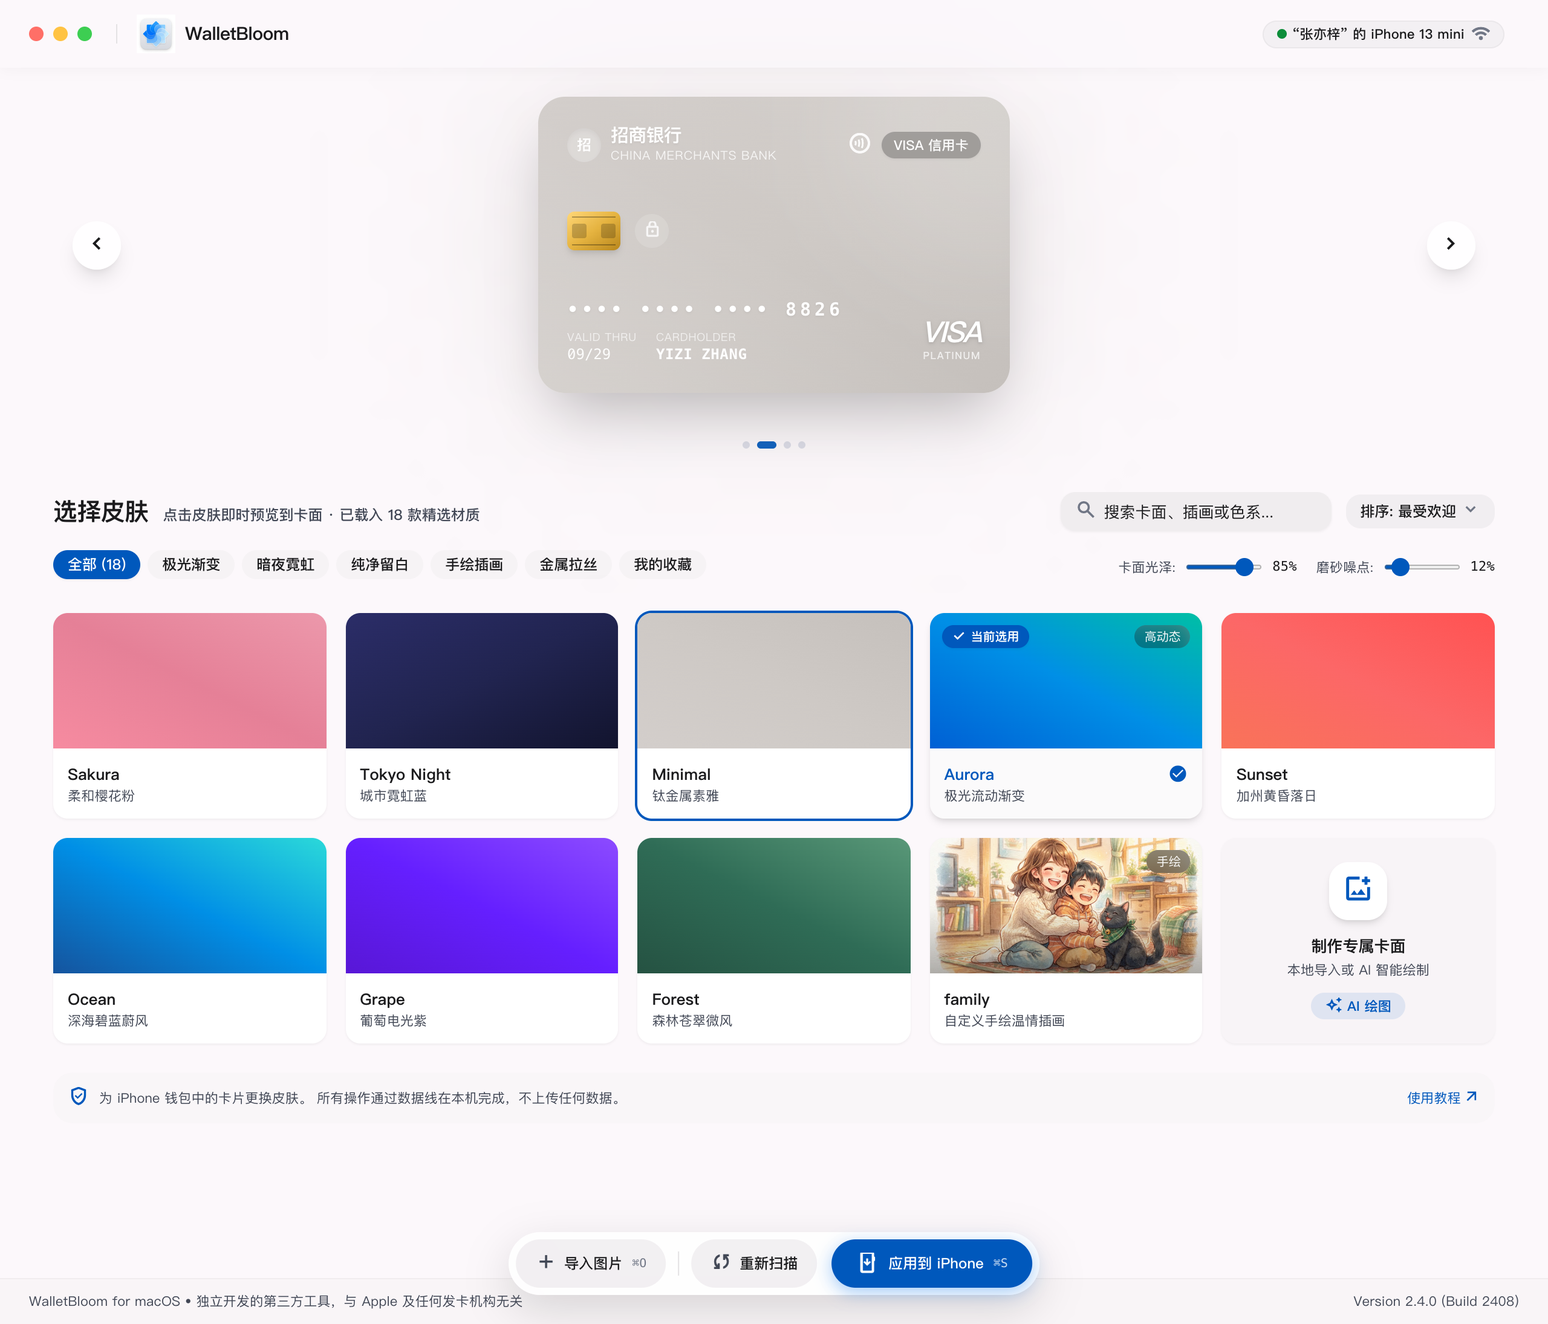
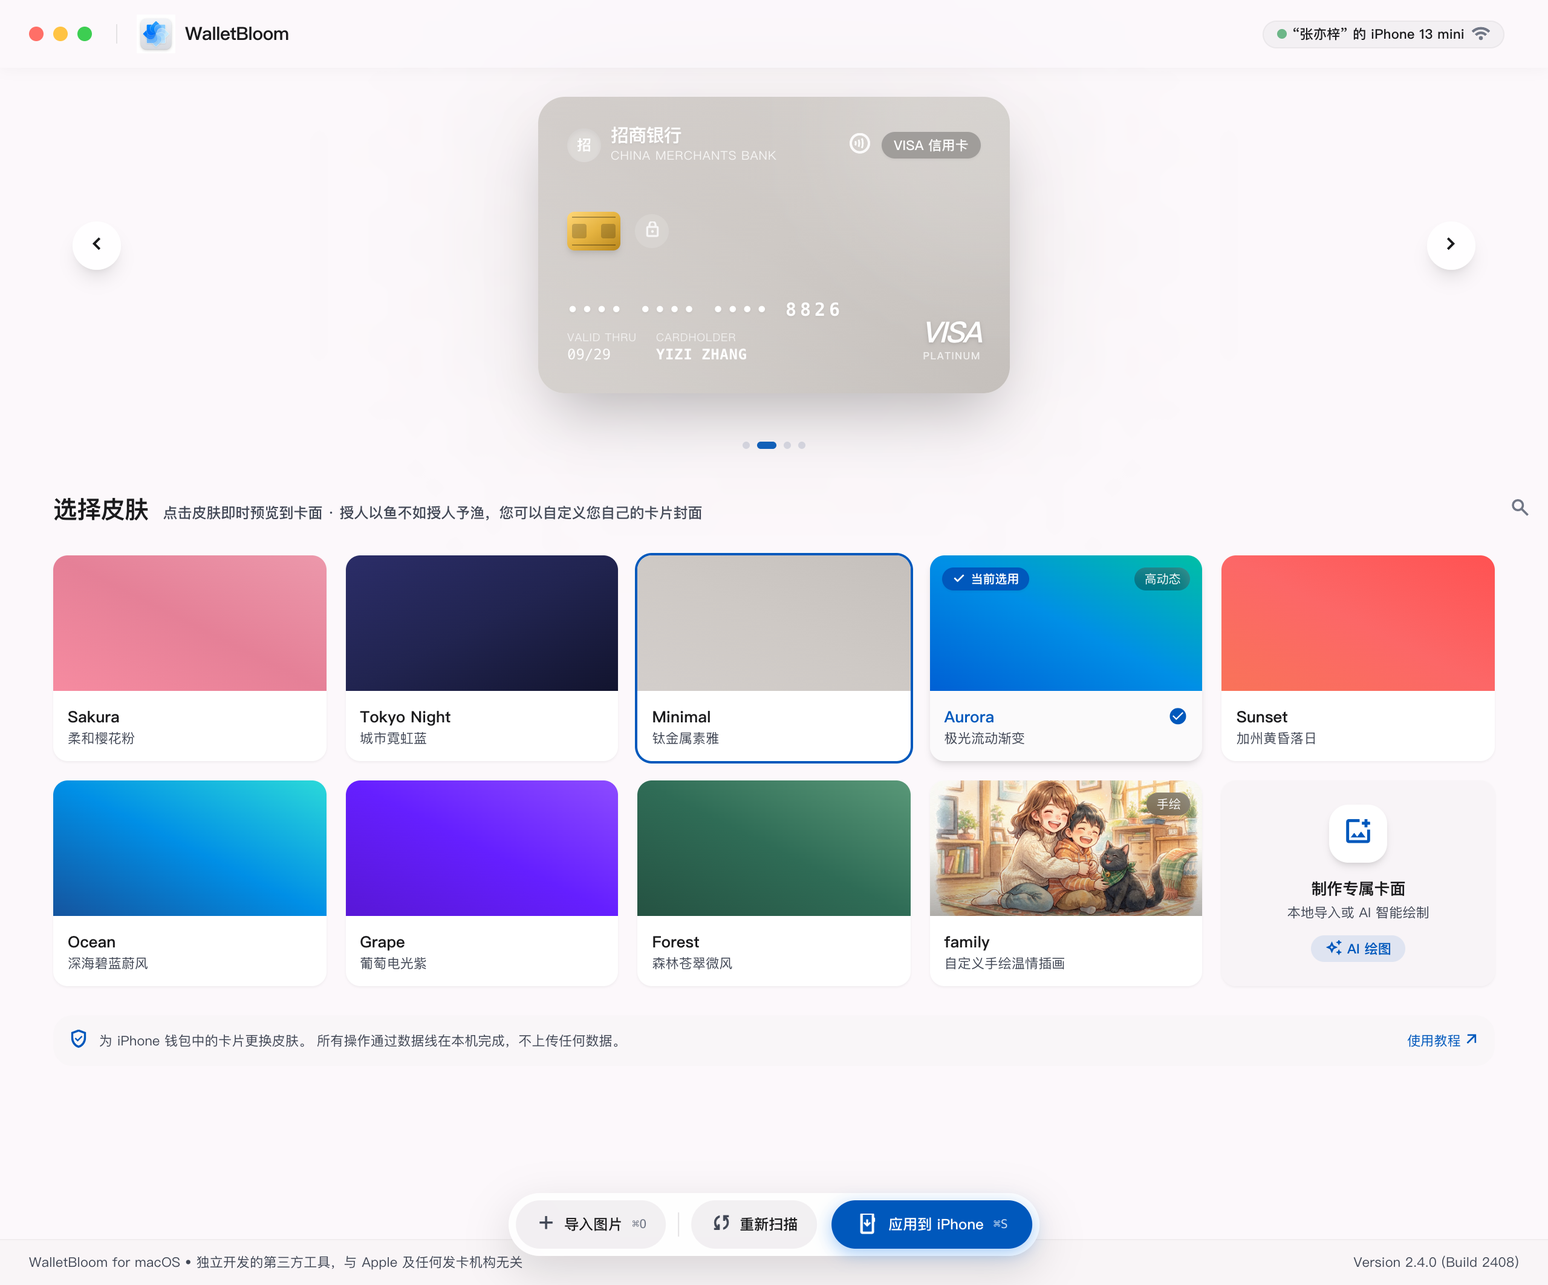
开源准备：面向用户的 README、LICENSE 与第三方许可声明
- README 重写为中文使用说明，含 Gatekeeper 放行方法（未做公证）、使用步骤、从源码编译、致谢与许可
- 新增 MIT LICENSE
- 新增 THIRD_PARTY_NOTICES.md，收录 AirCard（MIT）、Sparkle、python-build-standalone 的许可声明

diff --git a/stitch_macos_app_redesign/code.html b/stitch_macos_app_redesign/code.html
@@ -7,14 +7,14 @@
 <!-- Center Stage 3D Visualizer Carousel Area -->
 <div class="relative w-full py-6 flex items-center justify-center overflow-visible">
 <!-- Background Ambient Glow Halo -->
-<div class="absolute w-[440px] h-[260px] rounded-[36px] bg-primary-container/30 blur-[64px] pointer-events-none transition-all duration-700 ease-out" id="ambient-glow"></div>
+<div class="absolute w-[440px] h-[260px] rounded-[36px] bg-primary-container/30 blur-[64px] pointer-events-none transition-all duration-700 ease-out" id="ambient-glow" style="background-color: rgba(211, 206, 203, 0.3);"></div>
 <!-- Left Chevron Carousel Control -->
 <button aria-label="上一个卡面" class="absolute left-4 z-20 w-10 h-10 rounded-full bg-surface-container-lowest/90 hover:bg-surface-container-lowest text-on-surface flex items-center justify-center shadow-lg transition-transform active:scale-90 hover:scale-105">
 <span class="material-symbols-outlined text-[20px]">chevron_left</span>
 </button>
 <!-- Active Apple Wallet Card 3D Stage -->
 <div class="relative z-10 perspective-[1200px]">
-<div class="relative w-[390px] h-[245px] rounded-[22px] p-6 text-on-primary shadow-2xl flex flex-col justify-between overflow-hidden cursor-pointer select-none transition-all duration-500 ease-out hover:-translate-y-1.5 hover:shadow-[0_24px_50px_rgba(0,112,235,0.3)] bg-gradient-to-tr from-[#0060d4] via-[#008fe6] to-[#00bfa5]" id="hero-card" style="transform: rotateX(0deg) rotateY(0deg) scale(1);">
+<div class="relative w-[390px] h-[245px] rounded-[22px] p-6 text-on-primary shadow-2xl flex flex-col justify-between overflow-hidden cursor-pointer select-none transition-all duration-500 ease-out hover:-translate-y-1.5 hover:shadow-[0_24px_50px_rgba(0,112,235,0.3)] bg-gradient-to-tr from-[#0060d4] via-[#008fe6] to-[#00bfa5]" id="hero-card" style="transform: rotateX(0deg) rotateY(0deg) scale(1); background: linear-gradient(135deg, rgb(211, 206, 203) 0%, rgb(206, 201, 197) 50%, rgb(197, 192, 188) 100%);">
 <!-- Card Specular Sheen Gradient Overlay -->
 <div class="absolute inset-0 bg-gradient-to-tr from-white/20 via-transparent to-white/10 opacity-70 pointer-events-none"></div>
 <div class="absolute -top-24 -right-24 w-60 h-60 bg-white/15 rounded-full blur-2xl pointer-events-none"></div>
@@ -93,45 +93,19 @@
 <div class="flex items-center justify-between">
 <div class="flex items-baseline gap-3">
 <h2 class="font-headline-lg text-headline-lg font-bold text-on-surface">选择皮肤</h2>
-<span class="font-label-md text-label-md text-on-surface-variant">点击皮肤即时预览到卡面 · 已载入 18 款精选材质</span>
+<span class="font-label-md text-label-md text-on-surface-variant">点击皮肤即时预览到卡面 · 授人以鱼不如授人予渔，您可以自定义您自己的卡片封面</span>
 </div>
 <!-- Search & Sorter -->
 <div class="flex items-center gap-3">
 <div class="relative flex items-center">
 <span class="material-symbols-outlined absolute left-3 text-outline text-[18px]">search</span>
-<input class="h-8 pl-9 pr-3 rounded-xl bg-surface-container text-body-md text-on-surface placeholder:text-outline focus:outline-none focus:bg-surface-container-lowest shadow-sm w-56 transition-all" placeholder="搜索卡面、插画或色系..." type="text">
+
 </div>
-<div class="flex items-center gap-1 px-3 py-1.5 rounded-xl bg-surface-container-high/60 text-on-surface font-label-md text-label-md cursor-pointer hover:bg-surface-container-high transition-colors">
-<span class="">排序: 最受欢迎</span>
-<span class="material-symbols-outlined text-[16px] text-outline">expand_more</span>
-</div>
+
 </div>
 </div>
 <!-- Tag Filter Pills & Quick Toggles -->
-<div class="flex items-center justify-between">
-<div class="flex items-center gap-1.5 overflow-x-auto pb-1">
-<button class="px-space-md py-1 rounded-full bg-primary text-on-primary font-label-md text-label-md shadow-sm">全部 (18)</button>
-<button class="px-space-md py-1 rounded-full bg-surface-container-low hover:bg-surface-container text-on-surface font-label-md text-label-md transition-colors">极光渐变</button>
-<button class="px-space-md py-1 rounded-full bg-surface-container-low hover:bg-surface-container text-on-surface font-label-md text-label-md transition-colors">暗夜霓虹</button>
-<button class="px-space-md py-1 rounded-full bg-surface-container-low hover:bg-surface-container text-on-surface font-label-md text-label-md transition-colors">纯净留白</button>
-<button class="px-space-md py-1 rounded-full bg-surface-container-low hover:bg-surface-container text-on-surface font-label-md text-label-md transition-colors">手绘插画</button>
-<button class="px-space-md py-1 rounded-full bg-surface-container-low hover:bg-surface-container text-on-surface font-label-md text-label-md transition-colors">金属拉丝</button>
-<button class="px-space-md py-1 rounded-full bg-surface-container-low hover:bg-surface-container text-on-surface font-label-md text-label-md transition-colors">我的收藏</button>
-</div>
-<!-- Micro Parameters Quick Sliders -->
-<div class="flex items-center gap-4 text-on-surface-variant font-label-sm text-label-sm">
-<div class="flex items-center gap-2">
-<span class="">卡面光泽:</span>
-<input class="w-16 accent-primary h-1 bg-surface-container-highest rounded-lg cursor-pointer" max="100" min="0" type="range" value="85">
-<span class="font-mono text-on-surface">85%</span>
-</div>
-<div class="flex items-center gap-2">
-<span class="">磨砂噪点:</span>
-<input class="w-16 accent-primary h-1 bg-surface-container-highest rounded-lg cursor-pointer" max="100" min="0" type="range" value="12">
-<span class="font-mono text-on-surface">12%</span>
-</div>
-</div>
-</div>
+
 </div>
 <!-- 5-Column Fluid Skin Selection Grid -->
 <div class="grid grid-cols-5 gap-gutter w-full">
@@ -162,7 +136,7 @@
 </div>
 </div>
 <!-- Card 3: Minimal -->
-<div class="skin-tile group flex flex-col rounded-xl overflow-hidden bg-surface-container-lowest shadow-sm hover:shadow-md cursor-pointer transition-all duration-200" data-skin="minimal">
+<div class="skin-tile group flex flex-col rounded-xl overflow-hidden bg-surface-container-lowest shadow-sm hover:shadow-md cursor-pointer transition-all duration-200 ring-2 ring-primary" data-skin="minimal">
 <div class="h-28 w-full bg-gradient-to-tr from-[#d3cecb] via-[#cec9c5] to-[#c5c0bc] p-2.5 flex justify-end items-start relative overflow-hidden">
 <span class="opacity-0 group-hover:opacity-100 transition-opacity px-2 py-0.5 rounded-full bg-black/30 backdrop-blur-md text-white font-label-sm text-[10px]">预览</span>
 </div>
@@ -175,7 +149,7 @@
 </div>
 </div>
 <!-- Card 4: Aurora (ACTIVE / SELECTED) -->
-<div class="skin-tile active-skin group flex flex-col rounded-xl overflow-hidden bg-surface-container-lowest shadow-md cursor-pointer transition-all duration-200 ring-2 ring-primary" data-skin="aurora">
+<div class="skin-tile active-skin group flex flex-col rounded-xl overflow-hidden bg-surface-container-lowest shadow-md cursor-pointer transition-all duration-200" data-skin="aurora">
 <div class="h-28 w-full bg-gradient-to-tr from-[#0060d4] via-[#008fe6] to-[#00bfa5] p-2.5 flex justify-between items-start relative overflow-hidden">
 <span class="px-2 py-0.5 rounded-full bg-primary text-on-primary font-label-sm text-[10px] font-semibold flex items-center gap-1 shadow-sm">
 <span class="material-symbols-outlined text-[12px]">check</span> 当前选用
@@ -437,5 +411,7 @@
     })();
   </script>
 </div></main><footer class="w-full bg-surface-container-low/60 backdrop-blur-md py-space-md shadow-[inset_0_1px_0_rgba(0,0,0,0.03)]"><div class="w-full px-margin flex items-center justify-between font-label-sm text-label-sm text-on-surface-variant"><span class="">WalletBloom for macOS • 独立开发的第三方工具，与 Apple 及任何发卡机构无关&nbsp;</span><span class="">Version 2.4.0 (Build 2408)</span></div></footer>
+
+
 
 </body></html>

diff --git a/README.md b/README.md
@@ -1,62 +1,89 @@
 # 钱包卡片皮肤管家（WalletBloom）
 
-WalletBloom is a native macOS SwiftUI starter project for designing and applying visual skins to Apple Wallet cards.
+一款 macOS 小工具：用数据线连接 iPhone，给 Apple 钱包里的卡片换上你喜欢的卡面。内置几款示例皮肤，更推荐导入你自己的图片制作专属卡面。
 
-## Run
+> 独立开发的第三方工具，与 Apple 及任何银行、发卡机构、卡组织均无关联。**只更换卡面显示图片，不接触任何支付信息、不联网上传任何数据、不影响刷卡。**
 
-Requires macOS 14 or later. The app always talks to a real iPhone through AirCard's helpers — there is no mock mode. Package it with `scripts/package_app.sh` (see below), or when running from Xcode / `swift run`, set `AIR_CARD_ROOT` to an AirCard checkout containing `build/device_helper` and `aircard_backend.py`. Without a toolchain the app opens on an error screen explaining what is missing.
+## 下载安装
 
-```text
-Package.swift
-Sources/WalletBloom/
-├── Domain/Models.swift       Device, WalletCard, Skin (+ Artwork), FlashJob
-├── Domain/Services.swift     Transport, scanner, engine, skin catalog boundaries
-├── Infrastructure/           Airlift adapter, flash coordinator, local library, skin exporter
-├── Views/                    Onboarding, scan status, workspace (carousel, skins, toolbar)
-├── WalletBloomStore.swift    Phase state machine and import/scan/flash orchestration
-└── WalletBloomApp.swift      Single-window app entry point
-Tests/WalletBloomTests/       Process runner, hash extraction, flash result, library, renderer
-Resources/                    Info.plist, AppIcon.icns (regenerate with `swift scripts/make_icon.swift`)
+1. 到 [Releases](https://github.com/zhanggenlove/WalletCardSkin/releases) 下载最新的 `WalletCardSkin.app.zip` 并解压。
+2. 把 `钱包卡片皮肤管家.app` 拖到「应用程序」文件夹。
+3. 这个 App 没有做 Apple 公证，macOS 的 Gatekeeper 默认会拦截。**按下面任一方法放行即可。**
+
+### 放行被拦截的 App（Gatekeeper）
+
+**方法一：去掉隔离标记（推荐，一步到位）**
+
+打开「终端」，粘贴执行（按实际路径调整）：
+
+```bash
+xattr -dr com.apple.quarantine "/Applications/钱包卡片皮肤管家.app"
 ```
 
-Run the tests with `swift test`.
+之后正常双击打开即可。
 
-## Package a real-device app
+**方法二：右键打开**
 
-Build AirCard's helper binaries first, run `swift package resolve` once to fetch Sparkle, then run `scripts/package_app.sh`. The script embeds `Sparkle.framework` and the app icon, plus a standalone Python runtime (downloaded by `scripts/fetch_python.sh` into the gitignored `build/`), so the app needs no system `python3`. The script expects the source at `/Users/zhanggen/Downloads/AirCard-main` by default; set `AIR_CARD_ROOT` to override it. If the helper binaries are built elsewhere, set `AIR_CARD_BIN_ROOT`. It refuses to package when `device_helper` or `airtraffic_host` is missing, so an app without device support is never produced.
+在 App 上点右键 →「打开」→ 在弹窗里再点一次「打开」。若系统提示「无法打开」，用方法一或方法三。
 
-## Current behavior
+**方法三：在系统设置里放行**
 
-The store drives a single phase state machine: `launching → onboarding → scanning → ready`, with `noCards` and `failed` as scan outcomes.
+双击打开被拦后，到「系统设置 →『隐私与安全性』」，在底部找到关于本 App 的提示，点「仍要打开」。
 
-- **Onboarding** — shown when no iPhone is connected, and again whenever the phone is unplugged. Lists the connect / trust / open Wallet / scan steps and polls `device_helper list` every 2 seconds; steps 1–2 tick off once the phone appears. If cards were saved earlier, connecting skips straight to the workspace.
-- **Scanning** — watches device logs for up to 30 seconds, showing live whether the log stream is connected and how many cards were found; it can be finished early (keeping results) or cancelled. Bare hashes are only trusted from Wallet-related processes, which filters out the push/sync tokens that look identical. New cards are saved to WalletBloom's own library; AirCard's `~/.aircard_cards.json` is read but never written.
-- **No cards / failed** — native `ContentUnavailableView` screens with rescan, retry and contact-support actions (the support address is a placeholder in `SupportContact`).
-- **Import & crop** — imported images open a crop sheet (drag to position, slider or pinch to zoom, low-resolution warning); the result is rendered to 1536×969 and stored in the local library.
-- **Workspace** — layout follows `stitch_macos_app_redesign/`: a card stage with floating chevrons and page dots (click, swipe, ← / →; right-click to rename or remove a card), a 5-column skin grid ending in a "create your own" tile, a privacy strip, a floating pill action bar (import ⌘O, rescan, apply ⌘↩) and a footer with the disclaimer and version.
-- **No restore** — WalletBloom does not back up the original card art. The disclaimer and a confirmation before applying (with "Don't show again") explain that restoring requires removing and re-adding the card in Wallet; the wording lives in `RestoreNotice`.
-- **Sync** — applying a skin opens a modal sheet with the backend's real step progress; the window is locked until it finishes, and quitting asks for confirmation.
-- **Compatibility** — the connected iPhone's iOS version is checked against AirCard's range (iOS 18+, tested on 27): older versions block scanning and applying, newer ones show an "untested" warning.
-- **Disclaimer & privacy** — a one-time disclaimer must be accepted on first launch (bump `DisclaimerView.version` when the text changes); both texts are always available from the Help menu, and privacy also from the toolbar (next to the device badge) and the workspace privacy strip.
-- **Menus** — WalletBloom (About, Check for Updates…), File (Import Image ⌘O, Scan Cards ⌘R), Cards (previous/next, rename, apply ⌘↩, remove), Help (privacy, disclaimer, support). Updates use Sparkle and stay disabled until `SUFeedURL` / `SUPublicEDKey` are set — see `docs/roadmap.md`.
-- **Language** — Simplified Chinese only for now, including system menu items; internationalization is planned in `docs/roadmap.md`.
-- **Local library** — `~/Library/Application Support/WalletBloom/` keeps scanned and removed cards, the skin applied to each card, and copies of imported images.
-- **Skin library** — built-in samples (images dropped into `Resources/BuiltInSkins/`, then eight gradients) followed by the user's own images; the last tile invites importing. No search, categories or server catalog — the focus is on users' own images.
+> 这些步骤只是因为 App 未经 Apple 付费公证，并不代表有风险。源码完全公开，你可以自行审阅或自行编译。
 
-## Airlift integration
+## 使用
 
-`Infrastructure/AirliftWallet.swift` now reflects the checked AirCard CLI boundary:
+1. 用数据线把 iPhone 连到 Mac，在 iPhone 上点「信任此电脑」。
+2. 打开 iPhone 的「钱包」App（或连按两下侧边按钮）。
+3. 在本 App 里点「开始扫描卡片」，扫描到后进入主界面。
+4. 选一款皮肤，或点「制作专属卡面」导入自己的图片并裁剪。
+5. 点「应用到 iPhone」。完成后，**从后台关闭钱包 App 再重新打开**即可看到新卡面（仍是旧卡面时可重启 iPhone）。
 
-- `device_helper list` returns paired device records.
-- `aircard_backend.py flash <udid> <card_hash> <image_path>` prepares `1536x969` artwork, builds the PNG/PDF assets, writes them through `write_files_batch`, and removes `FrontFace`, `PlaceHolder`, and `Preview` from both cache directories.
-- Saved card hashes are read from `~/.aircard_cards.json`; AirCard discovers new hashes by watching device logs while Wallet is open.
+**要求**：macOS 14 或更高；iPhone 为 iOS 18 及以上（已在 iOS 27 上测试）。
 
-The app uses the helpers bundled under `Contents/Resources` first, then falls back to `AIR_CARD_ROOT`; if neither is available it shows the missing-toolchain error. The bundle build must copy the signed helper binaries and Python resources before enabling real-device use.
+## 重要提示
 
-The application-level sequence remains:
+- **无法在 App 内恢复原卡面。** 本工具不会备份卡片原来的卡面。如需恢复发卡机构的原始卡面，请在 iPhone 钱包中移除该卡片后重新添加（可能需要发卡机构重新验证）。
+- 更新 iOS 或钱包重新同步卡片后，卡面可能被系统还原。
+- 是否使用由你自行判断并自担风险。详见 App 内「帮助 → 免责声明」。
 
-```text
-build assets → write assets through transport → refresh Wallet
+## 从源码编译
+
+```bash
+git clone https://github.com/zhanggenlove/WalletCardSkin.git
+cd WalletCardSkin
+swift build        # 编译
+swift test         # 运行测试
 ```
 
-The private `MobileDevice.framework` and `AirTrafficHost.framework` calls remain inside AirCard's helper binaries. WalletBloom does not link those private frameworks directly; it invokes the verified helper boundary and keeps exploit-specific details out of SwiftUI and domain code.
+与 iPhone 通信依赖 [AirCard](https://github.com/) 的辅助程序（`device_helper`、`airtraffic_host`）和 Python 后端。打包可用于真机的 App：
+
+```bash
+# 指向你的 AirCard 源码（含已编译的 build/device_helper 等）
+AIR_CARD_ROOT=/path/to/AirCard-main scripts/package_app.sh
+```
+
+`package_app.sh` 会编译 release、嵌入 Sparkle、App 图标，并自动下载内嵌一份独立 Python 运行时（[python-build-standalone](https://github.com/astral-sh/python-build-standalone)，arm64 + x86_64），因此目标机器**无需安装 python3**。只给 Apple Silicon 使用时可 `WB_PYTHON_ARCHS=arm64 scripts/package_app.sh` 以减小体积。
+
+把图片放进 `Resources/BuiltInSkins/`，打包时会作为内置示例皮肤显示（详见该目录下的 README）。
+
+工程结构、设计决策和待办分别见 `docs/implementation-notes.md` 与 `docs/roadmap.md`。
+
+## 工作原理
+
+本 App 不直接调用任何私有框架。与设备通信的部分（私有 `MobileDevice.framework` / `AirTrafficHost.framework` 的调用）都封装在 AirCard 的辅助程序里，App 只调用这条已验证的边界：
+
+```text
+构建卡面资源 → 通过 AirCard 写入设备 → 刷新钱包缓存
+```
+
+卡片识别、皮肤同步全部通过数据线在本机完成；App 联网仅用于检查更新（Sparkle），不会发送任何卡片或设备信息。
+
+## 致谢与许可
+
+- 本项目基于 [MIT 许可](LICENSE) 开源。
+- 设备通信依赖 [AirCard](https://github.com/)（MIT，© 2026 Johnny Franks）。
+- 自动更新使用 [Sparkle](https://github.com/sparkle-project/Sparkle)；内嵌 Python 来自 [python-build-standalone](https://github.com/astral-sh/python-build-standalone)。
+
+第三方组件的许可证全文见 [THIRD_PARTY_NOTICES.md](THIRD_PARTY_NOTICES.md)。

diff --git a/THIRD_PARTY_NOTICES.md b/THIRD_PARTY_NOTICES.md
@@ -1,0 +1,48 @@
+# 第三方组件许可（Third-Party Notices）
+
+本项目及其发布的 App 包含以下第三方组件，特此致谢并附上各自的许可证。
+
+---
+
+## AirCard
+
+设备通信辅助程序（device_helper、airtraffic_host）与 Python 后端。随发布的 App 一同分发。
+
+```
+MIT License
+
+Copyright (c) 2026 Johnny Franks
+
+Permission is hereby granted, free of charge, to any person obtaining a copy
+of this software and associated documentation files (the "Software"), to deal
+in the Software without restriction, including without limitation the rights
+to use, copy, modify, merge, publish, distribute, sublicense, and/or sell
+copies of the Software, and to permit persons to whom the Software is
+furnished to do so, subject to the following conditions:
+
+The above copyright notice and this permission notice shall be included in all
+copies or substantial portions of the Software.
+
+THE SOFTWARE IS PROVIDED "AS IS", WITHOUT WARRANTY OF ANY KIND, EXPRESS OR
+IMPLIED, INCLUDING BUT NOT LIMITED TO THE WARRANTIES OF MERCHANTABILITY,
+FITNESS FOR A PARTICULAR PURPOSE AND NONINFRINGEMENT. IN NO EVENT SHALL THE
+AUTHORS OR COPYRIGHT HOLDERS BE LIABLE FOR ANY CLAIM, DAMAGES OR OTHER
+LIABILITY, WHETHER IN AN ACTION OF CONTRACT, TORT OR OTHERWISE, ARISING FROM,
+OUT OF OR IN CONNECTION WITH THE SOFTWARE OR THE USE OR OTHER DEALINGS IN THE
+SOFTWARE.
+```
+
+---
+
+## Sparkle
+
+软件自动更新框架。https://github.com/sparkle-project/Sparkle
+采用 MIT 许可（含对 bsdiff 等组件的额外声明），许可证全文见其仓库 LICENSE。
+
+---
+
+## python-build-standalone
+
+内嵌的独立 Python 运行时。https://github.com/astral-sh/python-build-standalone
+该发行版采用 PSF-2.0（CPython 本体）等许可；Python 自身版权归 © Python Software Foundation。
+许可证全文见其仓库 LICENSE 与所含 CPython 的 LICENSE。
